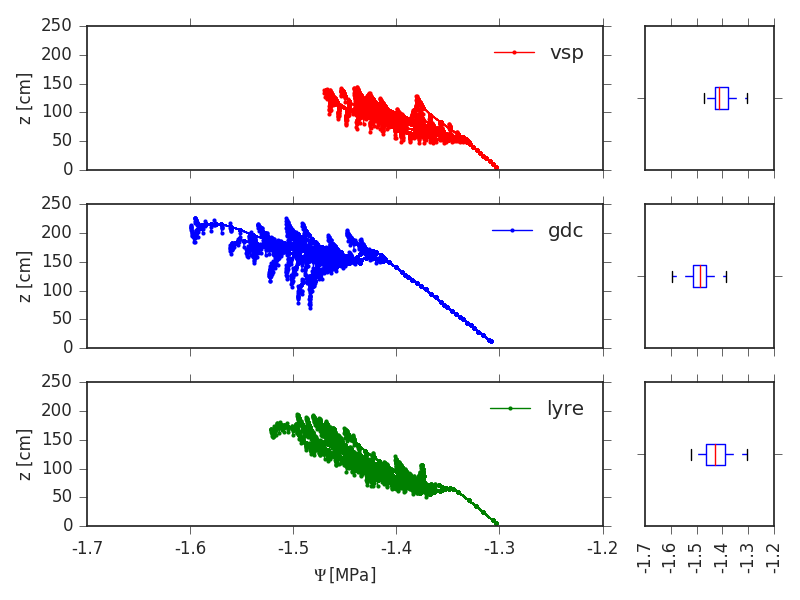
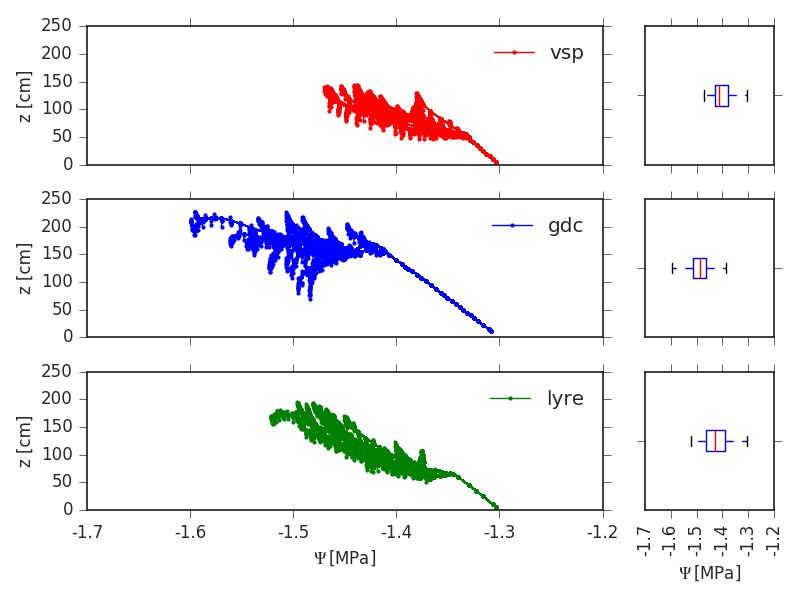
minor layout stuff

diff --git a/example/figs/paper_figs.py b/example/figs/paper_figs.py
@@ -18,7 +18,7 @@ def plot_figure_6():
     meteo_df.index = pd.DatetimeIndex(meteo_df.index)
     meteo_df = meteo_df.loc[datet]
 
-    fig, axs = pyplot.subplots(nrows=2, ncols=2, sharex=True)
+    fig, axs = pyplot.subplots(nrows=2, ncols=2, sharex=True, figsize=(9, 6))
     [ax.grid() for ax in axs.flatten()]
 
     axs[1, 0].plot(datet, meteo_df['Tac'], 'k--')
@@ -89,6 +89,8 @@ def plot_figure_7():
     for ax in axs[:, 1]:
         ax.tick_params(axis='y', which='both', labelleft='off')
         ax.set_xticklabels(np.arange(-1.7, -1.1, 0.1), rotation=90)
+
+    axs[2, 1].set_xlabel('$\mathregular{\Psi\/[MPa]}$')
 
     fig.tight_layout()
 
